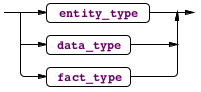
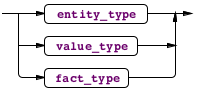
Changed documentation for value types (were called data types).

Changed region(s): [[0.0, 0.0217, 0.995, 0.9565], [0.2714, 0.087, 0.5427, 0.2391], [0.5427, 0.1087, 0.6935, 0.2174]]

diff --git a/docs/CQLIntroduction.html b/docs/CQLIntroduction.html
@@ -52,7 +52,7 @@ White space and comments as used in C and C++ are allowed:
 <ul type="disc">
 
 <li><b>Concepts</b> designated by name, including <b>entity types</b>
-and <b>data types</b>.
+and <b>value types</b>.
 </li>
 
 <li><b>Fact Types</b> each designated by one or more <b>readings</b>.
@@ -73,8 +73,8 @@ and facts within a valid <b>population</b>.</li>
 
 <p>
 In ORM, concepts are called object types, divided into value types and
-entity types. Value types in ORM are slightly different from data types
-in CQL, but CQL uses the terms interchangably.
+entity types. Value types in ORM are slightly different from value types
+in CQL.
 </p>
 
 <p>A CQL file must start with a vocabulary definition, and may import elements from one or more other vocabularies.</p>
@@ -115,16 +115,16 @@ same words in lower case, where they may occur in fact type readings.
   <dd><img src="../images/syntax/concept.png"><br>
 </dl>
 
-<h3>Data Types</h3>
+<h3>Value Types</h3>
 
-<p>A Data Type is a kind of thing which has a single value that may be
+<p>A Value Type is a kind of thing which has a single value that may be
 written down, that is, a lexical type, like a number, a name, a date,
 etc.
 </p>
 
 <p>
-A data type is usually derived from another data type, where top-level
-data types are defined in an imported vocabulary.  A data type may
+A value type is usually derived from another value type, where top-level
+value types are defined in an imported vocabulary.  A value type may
 refine its supertype by the use of <b>length</b> and <b>scale</b>
 parameters where relevant. (The ability to define custom parameters is
 anticipated in a revision of the language.) A value restriction might
@@ -133,17 +133,17 @@ these restrictions are discussed below.
 </p>
 
 <dl>
-  <dt>data type:
-  <dd><img src="../images/syntax/data_type.png" class="hangleft"><br>
-  <dt>data type details:
+  <dt>value type:
+  <dd><img src="../images/syntax/value_type.png" class="hangleft"><br>
+  <dt>value type details:
   <dd><img src="../images/syntax/dt_details.png"><br>
 </dl>
 
 <p>
-Top-level data types are defined by self-reference, e.g.
+Top-level value types are defined by self-reference, e.g.
 </p>
 <pre><em>
-      Integer is defined as Integer();
+      Integer is written as Integer();
 
 </em></pre>
 
@@ -200,15 +200,15 @@ role value, for which the reference mode shorthand is provided, as in:
 </em></pre>
 
 <p>
-<em>Value</em> is assumed to be (or created as) a data type.
+<em>Value</em> is assumed to be (or created as) a value type.
 A subtype of <em>Value</em> is assumed (or created) called <em>ThingValue</em>.
-Data type parameters may not yet be provided; this is an omission that
+Value type parameters may not yet be provided; this is an omission that
 will be corrected in an early revision.
 The <em>Thing</em> is then associated in an identifying one-to-one
 fact type with <em>ThingValue</em>. The result is equivalent to saying:
 </p>
 <pre><em>
-    ThingValue is defined as Thing();
+    ThingValue is written as Thing();
     Thing is identified by ThingValue where
 	Thing has one ThingValue,
 	ThingValue is of at most one Thing;
@@ -276,7 +276,7 @@ It will be identified by its relationship with its first supertype.
 </em></pre>
 
 <pre><em>
-    ShelfLife is defined as Time() in days;
+    ShelfLife is written as Time() in days;
     Perishable has at most one ShelfLife;
     Fruit has one Price per kg;
     Apple is a kind of Fruit, Perishable;
@@ -437,14 +437,14 @@ qualifier, which is also used in outer join derivations.</p>
 
 <p>
 A value restriction may follow a role reference where the role is played
-by a data type, and this constrains the allowed values of that data
+by a value type, and this constrains the allowed values of that value
 type in this role. In addition to fact type definitions, a value or a
 value restriction may be applied include fact instances and inn
 derivations, where it has the obvious effect.
 </p>
 
-<p>In addition to the value restrictions that can apply to data
-types, a role played by a data type may be restricted to specified
+<p>In addition to the value restrictions that can apply to value
+types, a role played by a value type may be restricted to specified
 values or value ranges:</p>
 
 <dl>
@@ -599,9 +599,9 @@ name followed by a value:</p>
     Name &lsquo;Fred&rsquo;;
 </em></pre>
 
-<p>This form is allowed for any data type, or any entity type
-that&rsquo;s identified by a single data type (or an entity
-identified by a single entity identified by a single data type,
+<p>This form is allowed for any value type, or any entity type
+that&rsquo;s identified by a single value type (or an entity
+identified by a single entity identified by a single value type,
 etc). In more complex cases, it might be necessary to invoke more
 than one fact type to define the instance:</p>
 
@@ -645,7 +645,7 @@ adjectives or defined role names may be used to separate the
 roles.</p>
 
 <!--p>The values may be modified by functions, such as the built-in
-functions on the Date data type which can extract the year, month,
+functions on the Date value type which can extract the year, month,
 day, etc from the Date.</p-->
 
 <p>It&rsquo;s possible to negate any invoked fact type by inserting
@@ -711,13 +711,13 @@ given-Name&rdquo;, &ldquo;Person lives at Address&rdquo;. A
 uniqueness constraint is present in &ldquo;Person has at most
 one family-Name&rdquo;.</p>
 
-<p>Name and Date are <b>data types</b>. Data types are lexical,
+<p>Name and Date are <b>value types</b>. Value types are lexical,
 meaning that they have values that may be written down, like a
-number, a name, etc. Data types may derive (inherit) from
-another data type, and some data types allow parameters, such as
+number, a name, etc. Value types may derive (inherit) from
+another value type, and some value types allow parameters, such as
 length or scale. Values for parameters are inherited.</p>
 
-<p>A numeric data type may indicate a quantity in a defined
+<p>A numeric value type may indicate a quantity in a defined
 <b>unit</b>. Units are defined either as fundamental, or as a
 coefficient multiplied by a base unit or units, each base unit
 being raised to some integer power. A unit definition may be
